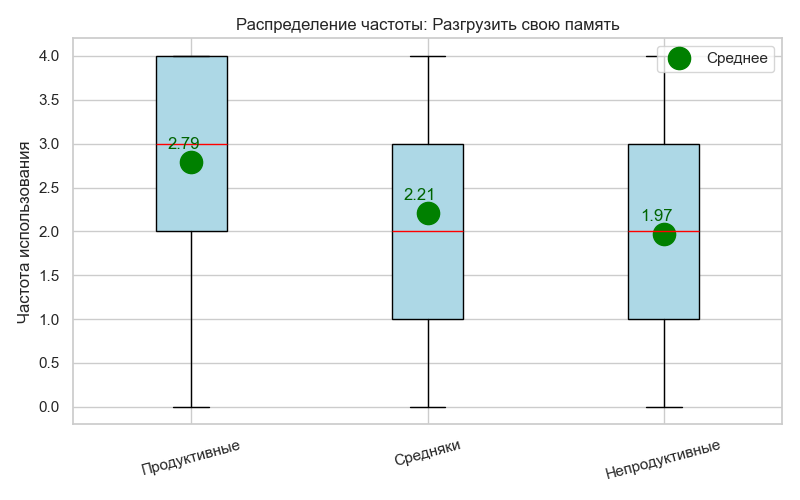
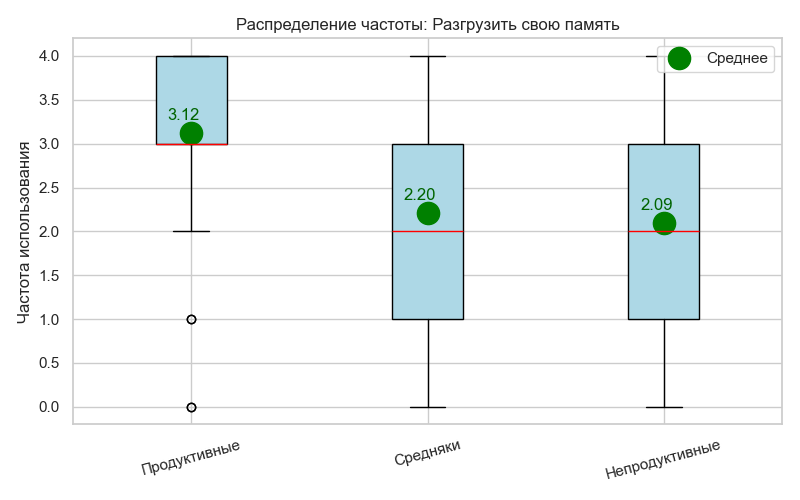
Сделал анализ по однопунктовой шкале

Changed region(s): [[0.1875, 0.21, 0.3125, 0.84], [0.7812, 0.39, 0.8438, 0.51], [0.5312, 0.36, 0.5625, 0.39]]

diff --git a/Survey-01/generate_survey_report.py b/Survey-01/generate_survey_report.py
@@ -14,13 +14,14 @@ from statsmodels.stats.multitest import multipletests
 # --- Настройки ---
 INPUT_FILE = 'Большое исследование джедайских приемов (Responses).csv'
 REPORT_DIR = 'C:\\Users\\maxim\\OneDrive\\Obsidian\\MyBrain\\Мои исследования\\Джедайская шкала\\'
-#REPORT_DIR = ''
+REPORT_DIR = ''
 OUTPUT_FILE = REPORT_DIR + 'survey_report.md'
 IMAGES_DIR = REPORT_DIR + 'images'
 
 # Целевая шкала для корреляционного анализа (можно менять)
 # TARGET_SCALE = 'MIJS-2+'
-TARGET_SCALE = 'MIJS-3+'
+#TARGET_SCALE = 'MIJS-3+'
+TARGET_SCALE = 'single_item'
 # TARGET_SCALE = 'MIJS-2'
 #TARGET_SCALE = 'MIJS'
 
@@ -273,7 +274,8 @@ def generate_report():
         "MIJS": ['mijs_q1', 'mijs_q2', 'mijs_q3', 'mijs_q4', 'mijs_q5', 'mijs_q6'],
         "MIJS-2": ['mijs_q2', 'mijs_q3', 'mijs_q4', 'mijs_q6'],
         "MIJS-2+": ['mijs_q2', 'mijs_q3', 'mijs_q4', 'mijs_q6', 'jedi_inv'],
-        "MIJS-3+": ['mijs_q2', 'mijs_q4', 'mijs_q6', 'jedi_inv']
+        "MIJS-3+": ['mijs_q2', 'mijs_q4', 'mijs_q6', 'jedi_inv'],
+        "single_item": ['jedi_inv']
     }
 
     summary_rows = []
@@ -286,7 +288,7 @@ def generate_report():
         
         # График распределения баллов по шкале
         plt.figure(figsize=(8, 5))
-        sns.histplot(data_scales[scale_name + '_total'], bins=8, kde=True, color='indigo')
+        sns.histplot(data_scales[scale_name + '_total'], bins="auto", kde=True, color='indigo')
         plt.title(f"Распределение баллов по шкале {scale_name}")
         plt.xlabel("Суммарный балл")
         plt.ylabel("Количество")
@@ -298,6 +300,9 @@ def generate_report():
             txt = QUESTION_TEXTS.get(it, "Инвертированная Джедайская шкала")
             report_content += f"- {it}: {txt}\n"
         report_content += "\n"
+
+        if len(items) == 1:
+            continue
 
         # 2.x.1 Надежность
         report_content += hm.get_header(3, "Надежность (Reliability)") + "\n\n"
@@ -412,27 +417,35 @@ def generate_report():
         if valid_idx.sum() > 30: # Минимум 30 наблюдений
             rho, pval = spearmanr(data_scales.loc[valid_idx, feat], target_data[valid_idx])
             
-            sig = ""
-            if pval < 0.0001: sig = "****"
-            elif pval < 0.001: sig = "***"
-            elif pval < 0.01: sig = "**"
-            elif pval < 0.05: sig = "*"
-            
             corr_results.append({
                 'Label': FEATURE_LABELS.get(feat, feat),
                 'Rho': rho,
-                'PVal': pval,
-                'Sig': sig
+                'PVal': pval
             })
 
-    # Сортировка по p-value (по возрастанию) и затем по Rho (по возрастанию)
-    corr_results.sort(key=lambda x: (x['PVal'], x['Rho']))
+    # Коррекция p-значений (FDR) для корреляций
+    if corr_results:
+        p_vals = [r['PVal'] for r in corr_results]
+        reject, p_adj, _, _ = multipletests(p_vals, method='fdr_bh')
+        for i, r in enumerate(corr_results):
+            r['PVal_adj'] = p_adj[i]
+            
+            # Звездочки на основе скорректированного p-value
+            sig = ""
+            if p_adj[i] < 0.0001: sig = "****"
+            elif p_adj[i] < 0.001: sig = "***"
+            elif p_adj[i] < 0.01: sig = "**"
+            elif p_adj[i] < 0.05: sig = "*"
+            r['Sig'] = sig
 
-    report_content += "| № | Прием | ρ (Rho) | p-value | Знач. |\n"
-    report_content += "| :--- | :--- | :---: | :---: | :---: |\n"
+    # Сортировка по скорректированному p-value
+    corr_results.sort(key=lambda x: (x.get('PVal_adj', 1.0), -abs(x['Rho'])))
+
+    report_content += "| № | Прием | ρ (Rho) | p-value | p (adj) | Знач. |\n"
+    report_content += "| :--- | :--- | :---: | :---: | :---: | :---: |\n"
     for i, res in enumerate(corr_results, 1):
-        report_content += f"| {i} | {res['Label']} | {res['Rho']:.3f} | {res['PVal']:.4f} | {res['Sig']} |\n"
-    report_content += "\n*Примечание: * p < 0.05, ** p < 0.01, *** p < 0.001. Отрицательная корреляция означает, что использование приема связано с более низким баллом по шкале MIJS (меньше стресса/завала).* \n\n"
+        report_content += f"| {i} | {res['Label']} | {res['Rho']:.3f} | {res['PVal']:.4f} | {res['PVal_adj']:.4f} | {res['Sig']} |\n"
+    report_content += f"\n*Примечание: Значимость (*) указана на основе скорректированного p-value (FDR). p < 0.05, ** p < 0.01, *** p < 0.001. Отрицательная корреляция означает, что использование приема связано с более низким баллом по шкале {TARGET_SCALE} (меньше стресса/завала).* \n\n"
 
     # --- Раздел 3.2: Сравнение средних (ANOVA) ---
     report_content += hm.get_header(2, "Сравнение средних (ANOVA)") + "\n\n"
@@ -457,20 +470,28 @@ def generate_report():
         
         if len(groups) >= 2:
             f_stat, pval = f_oneway(*groups)
-            sig = "****" if pval < 0.0001 else "***" if pval < 0.001 else "**" if pval < 0.01 else "*" if pval < 0.05 else ""
             anova_results_prac.append({
                 'Label': FEATURE_LABELS.get(feat, feat),
                 'Means': [means.get(l, np.nan) for l in range(5)],
-                'F': f_stat, 'PVal': pval, 'Sig': sig
+                'F': f_stat, 'PVal': pval
             })
 
-    anova_results_prac.sort(key=lambda x: x['PVal'])
-    report_content += "| № | Прием | Ср. (0) | Ср. (1) | Ср. (2) | Ср. (3) | Ср. (4) | F | p-value | Знач. |\n"
-    report_content += "| :--- | :--- | :---: | :---: | :---: | :---: | :---: | :---: | :---: | :---: |\n"
+    # Коррекция p-значений (FDR) для ANOVA (частота)
+    if anova_results_prac:
+        p_vals = [r['PVal'] for r in anova_results_prac]
+        reject, p_adj, _, _ = multipletests(p_vals, method='fdr_bh')
+        for i, r in enumerate(anova_results_prac):
+            r['PVal_adj'] = p_adj[i]
+            sig = "****" if p_adj[i] < 0.0001 else "***" if p_adj[i] < 0.001 else "**" if p_adj[i] < 0.01 else "*" if p_adj[i] < 0.05 else ""
+            r['Sig'] = sig
+
+    anova_results_prac.sort(key=lambda x: x['PVal_adj'])
+    report_content += "| № | Прием | Ср. (0) | Ср. (1) | Ср. (2) | Ср. (3) | Ср. (4) | F | p-value | p (adj) | Знач. |\n"
+    report_content += "| :--- | :--- | :---: | :---: | :---: | :---: | :---: | :---: | :---: | :---: | :---: |\n"
     for i, res in enumerate(anova_results_prac, 1):
         m_str = " | ".join([f"{m:.1f}" if not np.isnan(m) else "-" for m in res['Means']])
-        report_content += f"| {i} | {res['Label']} | {m_str} | {res['F']:.2f} | {res['PVal']:.4f} | {res['Sig']} |\n"
-    report_content += f"\n*Примечание: 0 — никогда/редко, 4 — всегда. В ячейках указан средний балл по шкале {TARGET_SCALE}. Чем ниже балл, тем выше продуктивность.* \n\n"
+        report_content += f"| {i} | {res['Label']} | {m_str} | {res['F']:.2f} | {res['PVal']:.4f} | {res['PVal_adj']:.4f} | {res['Sig']} |\n"
+    report_content += f"\n*Примечание: Значимость (*) указана на основе скорректированного p-value (FDR). 0 — никогда/редко, 4 — всегда. В ячейках указан средний балл по шкале {TARGET_SCALE}. Чем ниже балл, тем выше продуктивность.* \n\n"
 
     # --- 3.2.2. Уровень внедрения приемов ---
     report_content += hm.get_header(3, "Уровень внедрения приемов") + "\n\n"
@@ -490,26 +511,34 @@ def generate_report():
         
         if len(groups) >= 2:
             f_stat, pval = f_oneway(*groups)
-            sig = "***" if pval < 0.001 else "**" if pval < 0.01 else "*" if pval < 0.05 else ""
             anova_results_setup.append({
                 'Label': FEATURE_LABELS.get(feat, feat),
                 'Means': [means.get(l, np.nan) for l in range(4)],
-                'F': f_stat, 'PVal': pval, 'Sig': sig
+                'F': f_stat, 'PVal': pval
             })
 
-    anova_results_setup.sort(key=lambda x: x['PVal'])
-    report_content += "| № | Прием | Ср. (0) | Ср. (1) | Ср. (2) | Ср. (3) | F | p-value | Знач. |\n"
-    report_content += "| :--- | :--- | :---: | :---: | :---: | :---: | :---: | :---: | :---: |\n"
+    # Коррекция p-значений (FDR) для ANOVA (внедрение)
+    if anova_results_setup:
+        p_vals = [r['PVal'] for r in anova_results_setup]
+        reject, p_adj, _, _ = multipletests(p_vals, method='fdr_bh')
+        for i, r in enumerate(anova_results_setup):
+            r['PVal_adj'] = p_adj[i]
+            sig = "***" if p_adj[i] < 0.001 else "**" if p_adj[i] < 0.01 else "*" if p_adj[i] < 0.05 else ""
+            r['Sig'] = sig
+
+    anova_results_setup.sort(key=lambda x: x['PVal_adj'])
+    report_content += "| № | Прием | Ср. (0) | Ср. (1) | Ср. (2) | Ср. (3) | F | p-value | p (adj) | Знач. |\n"
+    report_content += "| :--- | :--- | :---: | :---: | :---: | :---: | :---: | :---: | :---: | :---: |\n"
     for i, res in enumerate(anova_results_setup, 1):
         m_str = " | ".join([f"{m:.1f}" if not np.isnan(m) else "-" for m in res['Means']])
-        report_content += f"| {i} | {res['Label']} | {m_str} | {res['F']:.2f} | {res['PVal']:.4f} | {res['Sig']} |\n"
-    report_content += f"\n*Примечание: 0 — не применил(а), 3 — по максимуму. В ячейках указан средний балл по шкале {TARGET_SCALE}.*\n\n"
+        report_content += f"| {i} | {res['Label']} | {m_str} | {res['F']:.2f} | {res['PVal']:.4f} | {res['PVal_adj']:.4f} | {res['Sig']} |\n"
+    report_content += f"\n*Примечание: Значимость (*) указана на основе скорректированного p-value (FDR). 0 — не применил(а), 3 — по максимуму. В ячейках указан средний балл по шкале {TARGET_SCALE}.*\n\n"
 
 
     # --- Раздел 3.3: Сравнение трёх групп продуктивности (Kruskal-Wallis + Dunn) ---
     report_content += hm.get_header(2, "Сравнение трёх групп продуктивности (Kruskal-Wallis)") + "\n\n"
-    report_content += "Респонденты разделены на три группы по терцилям (33-й и 66-й перцентили) суммарного балла продуктивности. "
-    report_content += "Низкая группа – наиболее продуктивные (низкие баллы MIJS), высокая группа – наименее продуктивные (высокие баллы). "
+    report_content += "Респонденты разделены на три группы по терцилям (20-й и 80-й перцентили) суммарного балла продуктивности. "
+    report_content += f"Низкая группа – наиболее продуктивные (низкие баллы {TARGET_SCALE}), высокая группа – наименее продуктивные (высокие баллы {TARGET_SCALE}). "
     report_content += "Для каждой практики проверяется гипотеза о различиях распределений частоты использования между тремя группами с помощью критерия Краскела-Уоллиса. "
     report_content += "В случае значимых различий (p < 0.05 после FDR‑коррекции) выполняются попарные пост‑хок тесты Данна.\n\n"
 
@@ -517,12 +546,12 @@ def generate_report():
     target = data_scales[target_col].dropna()
 
     # Определяем границы групп (терцили)
-    p33 = target.quantile(1/3)
-    p66 = target.quantile(2/3)
+    p20 = target.quantile(0.15)
+    p80 = target.quantile(0.75)
 
     # Создаём переменную группы
     data_scales['prod_group'] = pd.cut(data_scales[target_col], 
-                                        bins=[-np.inf, p33, p66, np.inf], 
+                                        bins=[-np.inf, p20, p80, np.inf], 
                                         labels=['Продуктивные', 'Средняки', 'Непродуктивные'])
 
     # Подсчёт числа респондентов в группах
@@ -566,7 +595,6 @@ def generate_report():
     # Коррекция p-значений (FDR)
     if kw_results:
         p_vals = [r['p_val'] for r in kw_results]
-        from statsmodels.stats.multitest import multipletests
         reject, p_adj, _, _ = multipletests(p_vals, method='fdr_bh')
         for i, r in enumerate(kw_results):
             r['p_adj'] = p_adj[i]
@@ -577,7 +605,7 @@ def generate_report():
         report_content += "| № | Практика | Ср. Продуктивные | Ср. Средняки | Ср. Непродуктивные | H-статистика | p (исх.) | p (скорр.) | Значима |\n"
         report_content += "| :--- | :--- | :---: | :---: | :---: | :---: | :---: | :---: | :---: |\n"
         for i, r in enumerate(kw_results, 1):
-            sig_marker = "Да" if r['reject'] else "Нет"
+            sig_marker = "✅" if r['reject'] else ""
             report_content += f"| {i} | {r['label']} | {r['mean_low']:.2f} | {r['mean_mid']:.2f} | {r['mean_high']:.2f} | {r['h']:.2f} | {r['p_val']:.4f} | {r['p_adj']:.4f} | {sig_marker} |\n"
 
         # Выделим значимые
@@ -779,6 +807,7 @@ def generate_report():
             else:
                 c_alpha = np.nan
                 c_omega = np.nan
+
             label = FEATURE_LABELS.get(feat, feat)
             report_content += f"| {label} | {c_alpha:.3f} | {c_omega:.3f} |\n"
         report_content += "\n"
